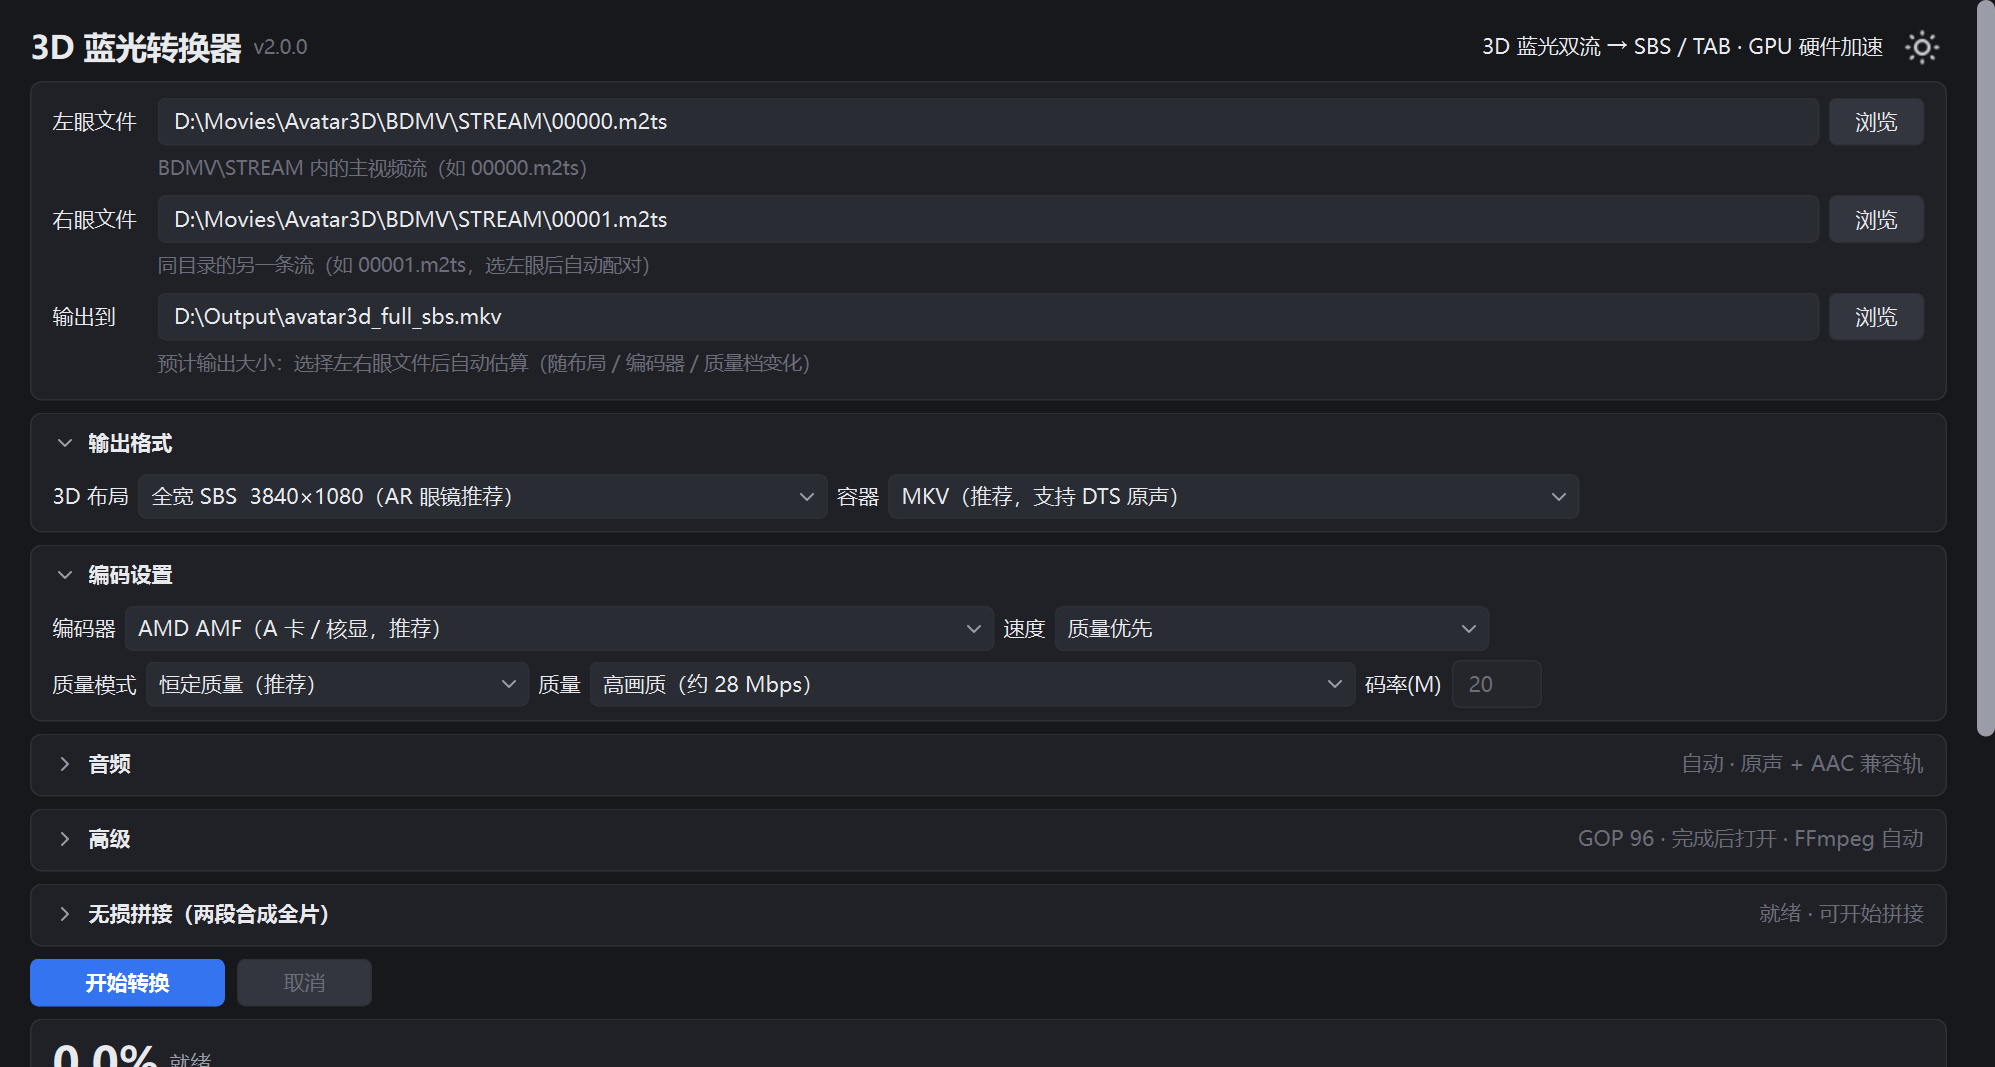
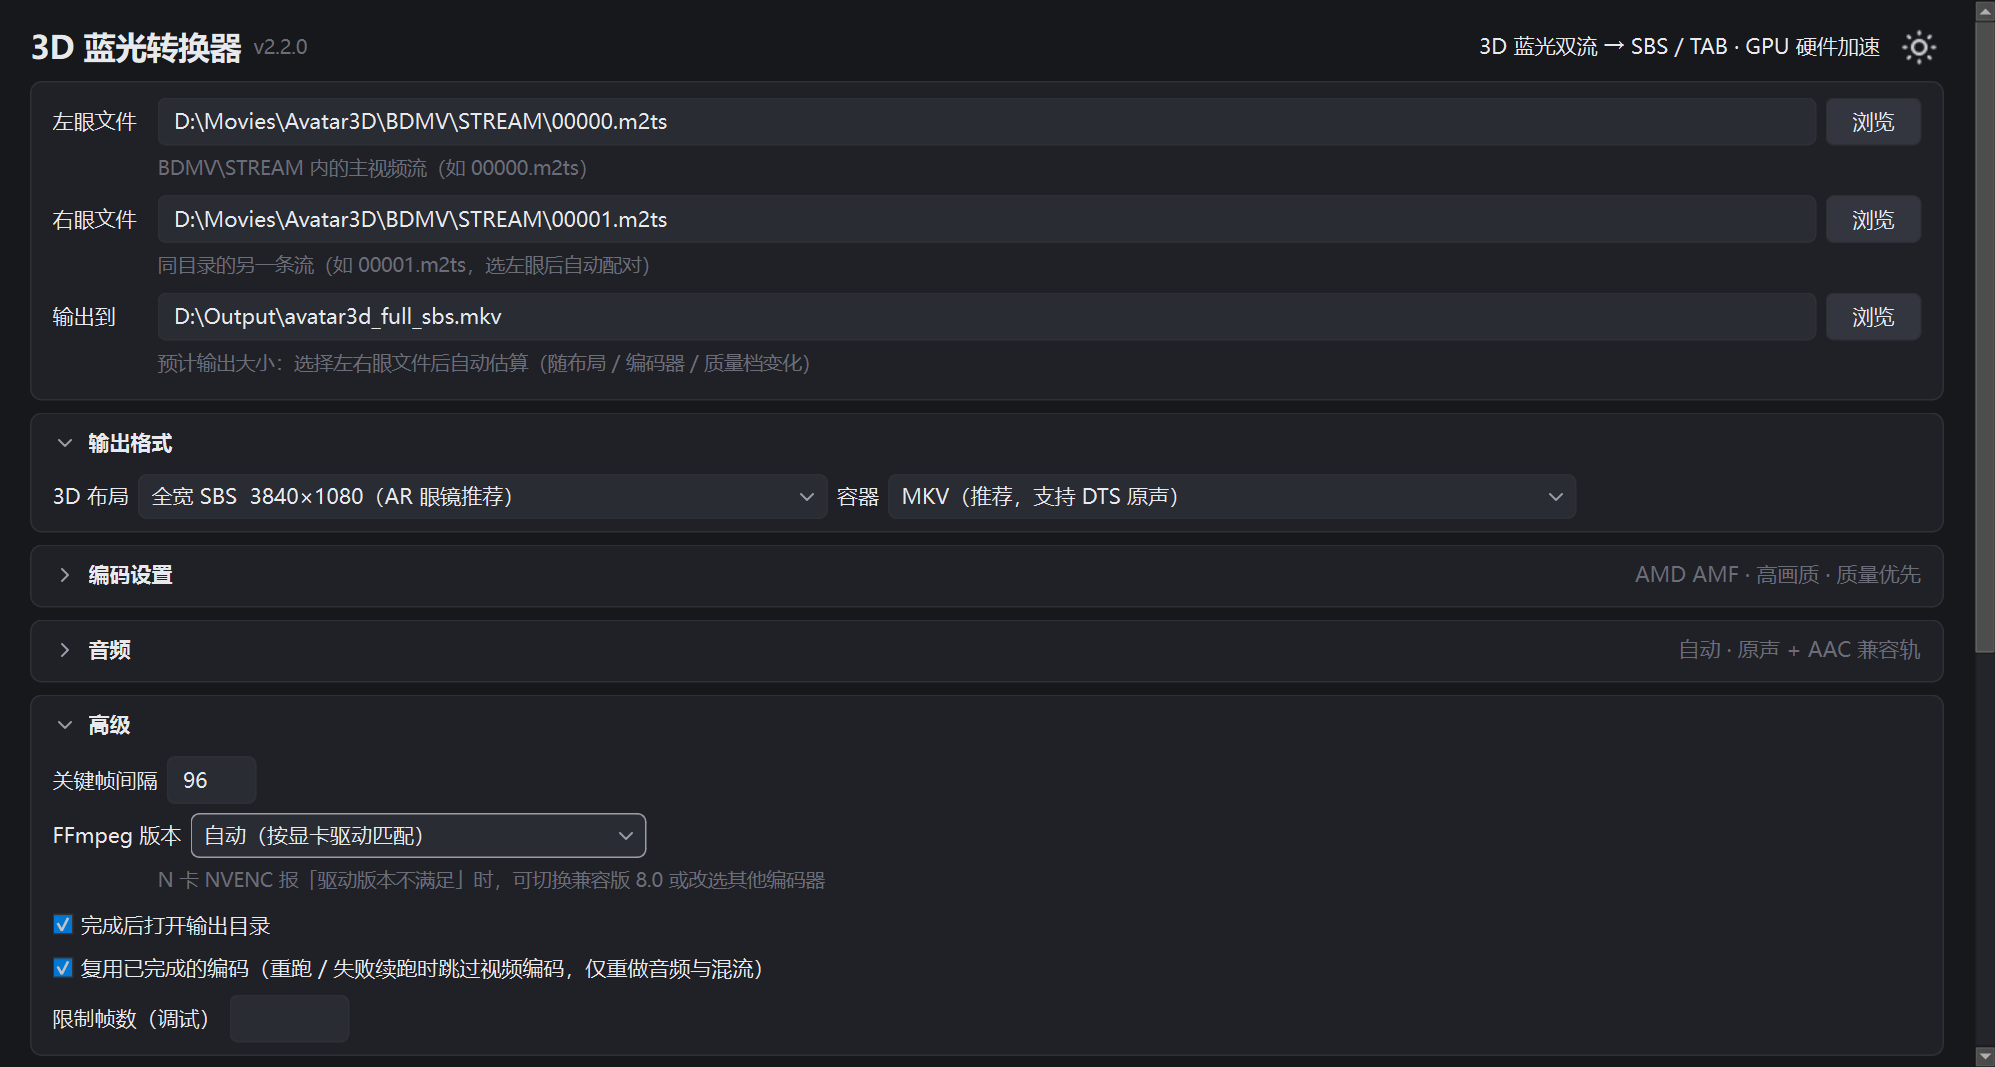
feat: advanced section layout - each option on its own left-aligned row; bump v2.2.1

diff --git a/bluray3d_converter.py b/bluray3d_converter.py
@@ -35,7 +35,7 @@ from PySide6.QtWidgets import (
     QStyledItemDelegate, QStyleOptionViewItem, QFileDialog, QMessageBox, QScrollArea)
 
 APP_TITLE = "3D 蓝光转换器"
-APP_VERSION = "v2.2.0"
+APP_VERSION = "v2.2.1"
 
 # ---- 选项定义 ----
 LAYOUTS = [
@@ -1590,31 +1590,44 @@ class MainWindow(QWidget):
         self.le_gop = QLineEdit(str(self.cfg.get("gop", 96)))
         self.le_gop.setFixedWidth(60)
         r.addWidget(self.le_gop)
-        self.chk_open = QCheckBox("完成后打开输出目录")
-        self.chk_open.setChecked(bool(self.cfg.get("open_after", True)))
-        r.addWidget(self.chk_open)
-        r.addWidget(QLabel("限制帧数（调试）"))
-        self.le_frames = QLineEdit("")
-        self.le_frames.setFixedWidth(80)
-        r.addWidget(self.le_frames)
         r.addStretch(1)
         self.sec_adv.body_layout.addLayout(r)
+
         r = QHBoxLayout()
         r.addWidget(QLabel("FFmpeg 版本"))
         self.cmb_ffver = NoWheelComboBox()
         self.cmb_ffver.addItems([x[0] for x in FFMPEG_VERSIONS])
         self._set_combo(self.cmb_ffver, self.cfg.get("ffver", FFMPEG_VERSIONS[0][0]))
-        r.addWidget(self.cmb_ffver, 2)
+        self.cmb_ffver.setMinimumWidth(300)
+        r.addWidget(self.cmb_ffver)
+        r.addStretch(1)
+        self.sec_adv.body_layout.addLayout(r)
         tip2 = QLabel("N 卡 NVENC 报「驱动版本不满足」时，可切换兼容版 8.0 或改选其他编码器")
         tip2.setObjectName("faintlabel")
-        r.addWidget(tip2, 3)
+        tip2.setContentsMargins(70, 0, 0, 4)
+        self.sec_adv.body_layout.addWidget(tip2)
+
+        r = QHBoxLayout()
+        self.chk_open = QCheckBox("完成后打开输出目录")
+        self.chk_open.setChecked(bool(self.cfg.get("open_after", True)))
+        r.addWidget(self.chk_open)
+        r.addStretch(1)
         self.sec_adv.body_layout.addLayout(r)
+
         r = QHBoxLayout()
         self.chk_reuse = QCheckBox(
             "复用已完成的编码（重跑 / 失败续跑时跳过视频编码，仅重做音频与混流）")
         self.chk_reuse.setChecked(bool(self.cfg.get("reuse_video", True)))
         self.chk_reuse.stateChanged.connect(lambda _=None: self._refresh_summaries())
         r.addWidget(self.chk_reuse)
+        r.addStretch(1)
+        self.sec_adv.body_layout.addLayout(r)
+
+        r = QHBoxLayout()
+        r.addWidget(QLabel("限制帧数（调试）"))
+        self.le_frames = QLineEdit("")
+        self.le_frames.setFixedWidth(80)
+        r.addWidget(self.le_frames)
         r.addStretch(1)
         self.sec_adv.body_layout.addLayout(r)
         root.addWidget(self.sec_adv)

diff --git a/README.md b/README.md
@@ -9,7 +9,7 @@
 
 **免安装便携版**（内置全部工具链，解压即用，约 260 MB）：
 
-https://github.com/hugo-feng/3d-bluray-converter/releases/download/v2.2.0/3DBlurayConverter_v2.2.0_portable.zip
+https://github.com/hugo-feng/3d-bluray-converter/releases/download/v2.2.1/3DBlurayConverter_v2.2.1_portable.zip
 
 > 解压到**纯英文路径**，双击 `3DBlurayConverter.exe` 运行。需要 Windows 10/11 x64。
 
